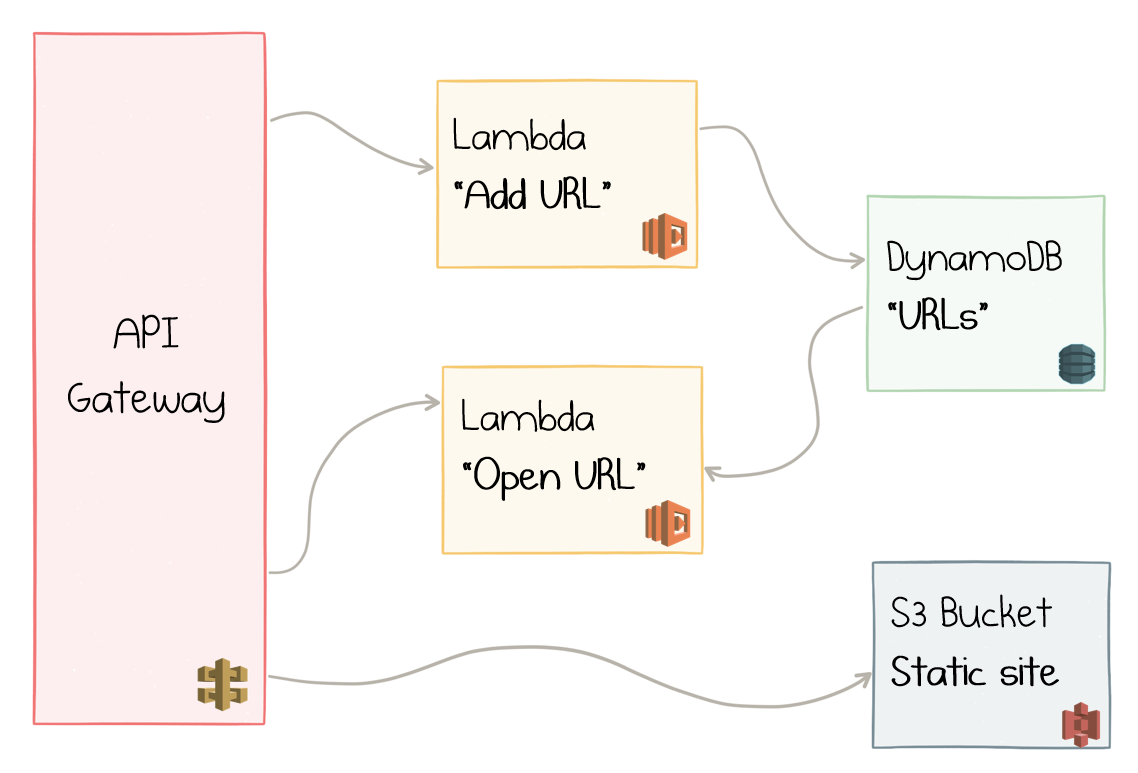
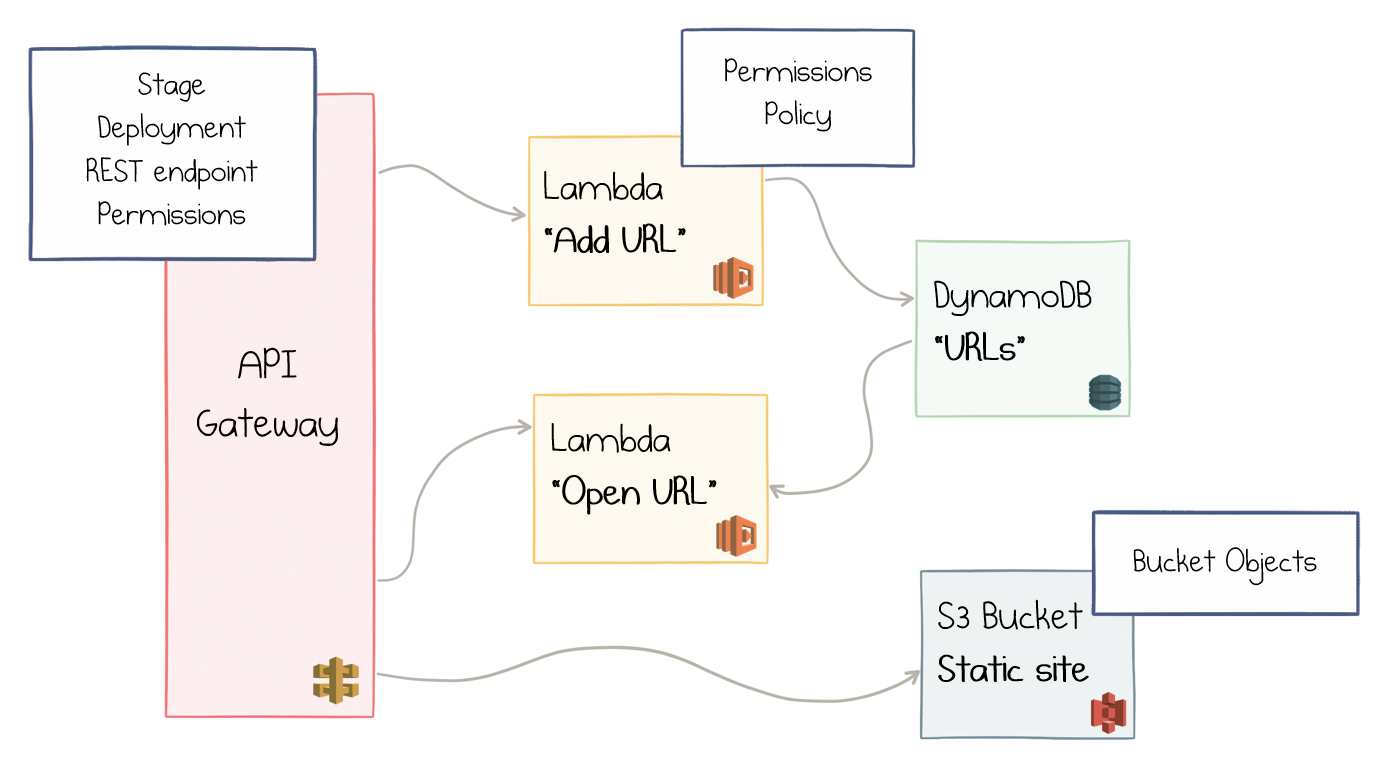
Pulumi article draft ready

diff --git a/src/documents/2019/02/pulumi/index.html.md b/src/documents/2019/02/pulumi/index.html.md
@@ -7,12 +7,14 @@ teaserImage: teaser.jpg
 description: 
 ---
 
-TODO: intro
+The rise of managed cloud services, cloud-native and serverless applications brings both new possibilities and challenges. More and more practices from software development process like version control, code review, continuous integration, and automated testing are applied to the cloud infrastructure provisioning.
+
+Most existing tools suggest defining infrastructure in text-based markup formats. In this article, I'm making a case for using real programming languages like TypeScript instead. Such a change makes even more software development practices applicable to the infrastructure realm.
 
 Sample Application
 ------------------
 
-It's always easier to make a case given a specific example. For this article, I took a URL Shortener application. There is an administrative page where one can define short aliases for long URLs:
+It's easier to make a case given a specific example. For this article, I define a URL Shortener application, a basic clone of tinyurl.com or bit.ly. There is an administrative page where one can define short aliases for long URLs:
 
 ![URL Shortener sample app](url-shortener.png)
 
@@ -20,24 +22,24 @@ It's always easier to make a case given a specific example. For this article, I 
 
 Now, whenever somebody goes to the base URL of the application + an existing alias, they get redirected to the full URL.
 
-This app is simple enough to be described but involves enough moving parts to be representative of some real-world issues. As a bonus, there are enough existing implementations on the web to compare with.
+This app is simple to describe but involves enough moving parts to be representative of some real-world issues. As a bonus, there are many existing implementations on the web to compare with.
 
 Serverless URL Shortener
 ------------------------
 
-I'm a big proponent of serverless architecture: developing cloud applications as a combination of serverless functions and managed cloud services. They are fast to develop, effortless to run, and will cost me nothing unless my URL shortener gets lots of users.
+I'm a big proponent of the serverless architecture: the style of cloud applications being a combination of serverless functions and managed cloud services. They are fast to develop, effortless to run and cost pennies unless the application gets lots of users.
 
-My examples are going to be in AWS, but this could be Microsoft Azure or Google Cloud Platform too.
+My examples are going to use Amazon AWS, but this could be Microsoft Azure or Google Cloud Platform too.
 
-So, my basic idea is to store URLs with short names as key-value pairs in Amazon DynamoDB and use AWS Lambdas to run the application code. Here is the initial sketch:
+So, the gist is to store URLs with short names as key-value pairs in Amazon DynamoDB and use AWS Lambdas to run the application code. Here is the initial sketch:
 
 ![URL Shortener with AWS Lambda and DynamoDB](lambda-dynamodb.png)
 
 <figcaption>URL Shortener with AWS Lambda and DynamoDB</figcaption>
 
-The top Lambda receives an event when somebody decides to add a new URL. It gets the name and the URL from the request and saves them as an item in the DynamoDB table.
+The Lambda on the top receives an event when somebody decides to add a new URL. It extracts the name and the URL from the request and saves them as an item in the DynamoDB table.
 
-The bottom Lambda gets called when a user navigates to a short URL. It reads the full URL based on the requested path and returns a `301` response with the corresponding location.
+The Lambda at the bottom is called when a user navigates to a short URL. The code reads the full URL based on the requested path and returns a 301 response with the corresponding location.
 
 Here is the implementation of the `Open URL` Lambda in JavaScript:
 
@@ -58,13 +60,13 @@ exports.handler = async (event) => {
 };
 ```
 
-That's 11 lines of code. I'll skip the implementation of `Add URL` function because it's very similar. Considering a third function to list the existing URLs for UI, we might have 30-40 lines of JavaScript.
+That's 11 lines of code. I'll skip the implementation of `Add URL` function because it's very similar. Considering a third function to list the existing URLs for UI, we might have 30-40 lines of JavaScript in total.
 
 So, how do we deploy the application?
 
 Well, before we do that, we should realize that the above picture was an over-simplification.
 
-- AWS Lambda can't handle HTTP directly, so we need to add AWS API Gateway in front of it.
+- AWS Lambda can't handle HTTP requests directly, so we need to add AWS API Gateway in front of it.
 - We also need to serve some static files for the UI, which we'll put into AWS S3 and front it with the same API Gateway.
 
 Here is the updated diagram:
@@ -73,13 +75,13 @@ Here is the updated diagram:
 
 <figcaption>API Gateway, Lambda, DynamoDB, and S3</figcaption>
 
-This will work, but the details are even more complicated:
+This is a viable design, but the details are even more complicated:
 
-- API Gateway is a complex beast which needs Stages, Deployments, and REST Endpoints to be configured properly.
-- Permissions and policies need to be configured so that API Gateway could call Lambda and Lambda could call DynamoDB.
+- API Gateway is a complex beast which needs Stages, Deployments, and REST Endpoints to be appropriately configured.
+- Permissions and policies need to be defined so that API Gateway could call Lambda and Lambda could access DynamoDB.
 - Static Files should go to S3 Bucket Objects.
 
-So, the actual setup involves a couple dozen objects to be configured in AWS:
+So, the actual setup involves a couple of dozen objects to be configured in AWS:
 
 ![Cloud resources to be provisioned](apigateway-lambda-dynamodb-s3-details.png)
 
@@ -90,25 +92,25 @@ How do we approach this task?
 Options to Provision the Infrastructure
 ---------------------------------------
 
-There are many options to provision a cloud application, each one with its own trade-offs. Let's quickly go through the list to understand the landscape.
+There are many options to provision a cloud application, each one has its trade-offs. Let's quickly go through the list of possibilities to understand the landscape.
 
 AWS Web Console
 ---------------
 
-AWS, as any other cloud, has a [web user interface](https://console.aws.amazon.com) to configure its resources:
+AWS, like any other cloud, has a [web user interface](https://console.aws.amazon.com) to configure its resources:
 
 ![AWS Web Console](aws-web-console.png)
 
 <figcaption>AWS Web Console</figcaption>
 
-That's obviously a good place to start&mdash;good for experimenting, figuring out the available options, following the tutorials, i.e. for exploration.
+That's a decent place to start&mdash;good for experimenting, figuring out the available options, following the tutorials, i.e., for exploration.
 
-However, it's pretty bad for long-lived ever-changing applications developed in teams. A manually clicked deployment is pretty hard to reproduce in the exact manner, which becomes a maintainability issue pretty fast.
+However, it doesn't suit particularly well for long-lived ever-changing applications developed in teams. A manually clicked deployment is pretty hard to reproduce in the exact manner, which becomes a maintainability issue pretty fast.
 
 AWS Command Line Interface
 --------------------------
 
-The [AWS Command Line Interface](https://aws.amazon.com/cli/) (CLI) is a unified tool to manage all AWS services from a command line. You write the calls like
+The [AWS Command Line Interface](https://aws.amazon.com/cli/) (CLI) is a unified tool to manage all AWS services from a command prompt. You write the calls like
 
 ``` console
 aws apigateway create-rest-api --name 'My First API' --description 'This is my first API'
@@ -116,21 +118,21 @@ aws apigateway create-rest-api --name 'My First API' --description 'This is my f
 aws apigateway create-stage --rest-api-id 1234123412 --stage-name 'dev' --description 'Development stage' --deployment-id a1b2c3
 ```
 
-The initial experience might not be as smooth as clicking buttons in the browser, but the huge benefit is that you can *reuse* commands that you once wrote. You can build scripts by combining many commands into cohesive scenarios. So, your colleague can use the same script that you created. You can provision multiple environments by parameterizing the scripts.
+The initial experience might not be as smooth as clicking buttons in the browser, but the huge benefit is that you can *reuse* commands that you once wrote. You can build scripts by combining many commands into cohesive scenarios. So, your colleague can benefit from the same script that you created. You can provision multiple environments by parameterizing the scripts.
 
-Frankly speaking, I've never done that for two related reason:
+Frankly speaking, I've never done that for two related reasons:
 
 - CLI scripts feel too imperative to me. I have to describe "how" to do things, not "what" I want to get in the end.
-- There seems to be no good story for updating existing resources. Do I write small delta scripts for any update? Do I have to keep them forever and run the full suite every time I need a new environment?
+- There seems to be no good story for updating existing resources. Do I write small delta scripts for each change? Do I have to keep them forever and run the full suite every time I need a new environment?
 
-To overcome such limitations, the notion of **Desired State Configuration** (DSC) was invented. Under this paradygm, one describes the desired layout of the infrastructure, and then the tooling takes care of either provisioning it from scratch, or applying the required changes to an existing environment.
+To overcome such limitations, the notion of the **Desired State Configuration** (DSC) was invented. Under this paradigm, one describes the desired layout of the infrastructure, and then the tooling takes care of either provisioning it from scratch or applying the required changes to an existing environment.
 
 Which tool provides DSC model for AWS? There are legions.
 
 AWS CloudFormation
 ------------------
 
-[AWS CloudFormation](https://aws.amazon.com/cloudformation/) is *the* tool for Desired State Configuration management from Amazon themselves. It comes with its own templating language based on UAML to describe all the infrastructure resources of AWS.
+[AWS CloudFormation](https://aws.amazon.com/cloudformation/) is the first-party tool for Desired State Configuration management from Amazon. CloudFormation templates use YAML to describe all the infrastructure resources of AWS.
 
 Here is a snippet from [a private URL shortener example](https://aws.amazon.com/blogs/compute/build-a-serverless-private-url-shortener/) kindly provided at AWS blog:
 
@@ -152,18 +154,18 @@ Resources:
             Status: Enabled
 ```
 
-This is just a very short fragment: the complete example consists of 317 lines YAML. That's order of magnitude more than the actual JavaScript code that we have in the application!
+This is just a very short fragment: the complete example consists of 317 lines YAML. That's an order of magnitude more than the actual JavaScript code that we have in the application!
 
-CloudFormation is a powerful tool, but it has quite some learning to be done to master it. And it's spefic to AWS: you won't be able to transfer the skill to other cloud providers.
+CloudFormation is a powerful tool, but it demands quite some learning to be done to master it. Moreover, it's specific to AWS: you won't be able to transfer the skill to other cloud providers.
 
 Wouldn't it be great if there was a universal DSC format? Meet Terraform.
 
 Terraform
 ---------
 
-[HashiCorp Terraform](https://www.terraform.io/) is an open source tool to define infrastructure in declarative configuration files. It has a a pluggable architecture, so the tool supports all major cloud and even hybrid scenarios. Terraform seems to be the most popular and powerful tool in its segment.
+[HashiCorp Terraform](https://www.terraform.io/) is an open source tool to define infrastructure in declarative configuration files. It has a pluggable architecture, so the tool supports all major clouds and even hybrid scenarios.
 
-The custom text-based Terraform `.tf` format is used to define the configurations. The templating language is quite powerful, and once you learn it you can use it for different cloud providers.
+The custom text-based Terraform `.tf` format is used to define the configurations. The templating language is quite powerful, and once you learn it, you can use it for different cloud providers.
 
 Here is a snippet from [AWS Lambda Short URL Generator](https://github.com/jamesridgway/aws-lambda-short-url) example:
 
@@ -184,14 +186,14 @@ resource "aws_api_gateway_usage_plan" "short_urls_admin_api_key_usage_plan" {
 
 This time, the complete example is around 450 lines of textual templates. Are there ways to reduce the size of the infrastructure definition?
 
-Yes, by raising the level of abstraction. It's possible with Terraform's modules, or by using other, more specilized tools.
+Yes, by raising the level of abstraction. It's possible with Terraform's modules, or by using other, more specialized tools.
 
 Serverless Framework and SAM
 ----------------------------
 
-[The Serverless Framework](https://serverless.com/) is an infrastructure management tool specialized on serverless applications. It works across cloud providers (AWS support is the strongest though) and only exposes features related to building applications with cloud functions.
+[The Serverless Framework](https://serverless.com/) is an infrastructure management tool focused on serverless applications. It works across cloud providers (AWS support is the strongest though) and only exposes features related to building applications with cloud functions.
 
-The benefit is that it's much more consise. Once again, the tool is using YAML to define the templates, here is the snippet from [Serverless URL Shortener](https://github.com/danielireson/serverless-url-shortener) example:
+The benefit is that it's much more concise. Once again, the tool is using YAML to define the templates, here is the snippet from [Serverless URL Shortener](https://github.com/danielireson/serverless-url-shortener) example:
 
 ``` yaml
 functions:
@@ -204,28 +206,28 @@ functions:
           cors: true
 ```
 
-But the domain-specific language yields shorter definition: this example has 45 lines of YAML + 123 lines of JavaScript functions.
+The domain-specific language yields a shorter definition: this example has 45 lines of YAML + 123 lines of JavaScript functions.
 
-Amazon's [AWS Serverless Application Model](https://docs.aws.amazon.com/serverless-application-model/index.html) (SAM) looks very similar to the Serverless Framework, but tailored to be AWS-specific.
+Amazon's [AWS Serverless Application Model](https://docs.aws.amazon.com/serverless-application-model/index.html) (SAM) looks very similar to the Serverless Framework but tailored to be AWS-specific.
 
 Is that the end game? I don't think so.
 
 Desired Properties of Infrastructure Definition Tool
 ----------------------------------------------------
 
-So what have we learned while going through the existing landscape? The perfect infrastracuture tools should:
+So what have we learned while going through the existing landscape? The perfect infrastructure tools should:
 
 - Provide **reproducible** results of deployments
-- Be **scriptable**, i.e. require no human intervention after the definition is complete
+- Be **scriptable**, i.e., require no human intervention after the definition is complete
 - Define **desired state** rather than exact steps to achieve it
-- Support **multiple cloud prodivers** and hybrid scenarios
-- Be **universal** in a sense of using the same tool to define any type of resource
-- Be **succint** and **concise** to stay readable and manageable
+- Support **multiple cloud providers** and hybrid scenarios
+- Be **universal** in the sense of using the same tool to define any type of resource
+- Be **succinct** and **concise** to stay readable and manageable
 - ~~Use YAML-based format~~
 
-Nah, I crossed out the last item. YAML seems to be the most popular language among this class of tools (and I haven't even touched Kubernetes yet!), but I'm not convinced it works good for me. [YAML has many flaws and I just don't want to use it](https://noyaml.com/).
+Nah, I crossed out the last item. YAML seems to be the most popular language among this class of tools (and I haven't even touched Kubernetes yet!), but I'm not convinced it works well for me. [YAML has many flaws, and I just don't want to use it](https://noyaml.com/).
 
-Have you noticed that I haven't mentioned **Infrastructure as code** a single time yet? Well, here we go (from [wikipedia](https://en.wikipedia.org/wiki/Infrastructure_as_code)):
+Have you noticed that I haven't mentioned **Infrastructure as code** a single time yet? Well, here we go (from [Wikipedia](https://en.wikipedia.org/wiki/Infrastructure_as_code)):
 
 > Infrastructure as code (IaC) is the process of managing and provisioning computer data centers through machine-readable definition files, rather than physical hardware configuration or interactive configuration tools.
 
@@ -242,12 +244,12 @@ Pulumi
 
 Pulumi programming model supports Go and Python too, but I'm going to use TypeScript for the rest of the article.
 
-While prototyping a URL shortener, I will explain the basic way of working, and illustrate the benefits and some trade-offs. If you want to follow along, [install Pulumi](https://pulumi.io/quickstart/install.html).
+While prototyping a URL shortener, I explain the fundamental way of working and illustrate the benefits and some trade-offs. If you want to follow along, [install Pulumi](https://pulumi.io/quickstart/install.html).
 
 How Pulumi Works
 ----------------
 
-Let's start defining our URL shortener application in TypeScript. I installed `@pulumi/pulumi` and `@pulumi/aws` NPM modules, so I can start the program. The first resource to create is a DynamoDB table:
+Let's start defining our URL shortener application in TypeScript. I installed `@pulumi/pulumi` and `@pulumi/aws` NPM modules so that I can start the program. The first resource to create is a DynamoDB table:
 
 ``` typescript
 import * as aws from "@pulumi/aws";
@@ -289,9 +291,9 @@ Resources:
     + 2 created
 ```
 
-The CLI first shows the preview of the changes to be made, and when I confirm, it creates the resource. It also created a *stack*&mdash;a container for all the resouces for the program.
+The CLI first shows the preview of the changes to be made, and when I confirm, it creates the resource. It also creates a *stack*&mdash;a container for all the resources of the application.
 
-This code might look like an imperative command to create a DynamoDB table but it's actually not. If I go ahead and change `readCapacity` to `2` and then re-run `pulumi up`, it will produce a different outcome:
+This code might look like an imperative command to create a DynamoDB table, but it actually isn't. If I go ahead and change `readCapacity` to `2` and then re-run `pulumi up`, it produces a different outcome:
 
 ``` console
 > pulumi up
@@ -307,20 +309,20 @@ Resources:
     1 unchanged
 ```
 
-It actually detected the exact change that I made, and suggests an update this time. The following picture illustrates how Pulumi works:
+It detects the exact change that I made and suggests an update. The following picture illustrates how Pulumi works:
 
 ![How Pulumi works](how-pulumi-works.png)
 
 <figcaption>How Pulumi works</figcaption>
 
-`index.ts` in the red square is my program. Pulumi's language host understands TypeScript and translates the code to commands to the internal engine. As result, the engine builds a tree of resources-to-be-provisioned, the desired state of the infrastructure.
+`index.ts` in the red square is my program. Pulumi's language host understands TypeScript and translates the code to commands to the internal engine. As a result, the engine builds a tree of resources-to-be-provisioned, the desired state of the infrastructure.
 
-The end state of the last deployment is persisted in the storage (can be in pulumi.com backend or a file on disk). The engine than compares the current state of the system with the desired state of the program, and calculates the delta in terms of create-update-delete commands to the cloud provider.
+The end state of the last deployment is persisted in the storage (can be in pulumi.com backend or a file on disk). The engine then compares the current state of the system with the desired state of the program and calculates the delta in terms of create-update-delete commands to the cloud provider.
 
 Help Of Types
 -------------
 
-Now I can proceed to code that defines a Lambda function:
+Now I can proceed to the code that defines a Lambda function:
 
 ``` typescript
 // Create a Role giving our Lambda access.
@@ -350,15 +352,15 @@ let lambda = new aws.lambda.Function("lambda-get", {
 }, { dependsOn: [fullAccess] });
 ```
 
-You can see that the complexity kicked in and the code size is growing. However, now I start to get real benefits from using a real typed programming language:
+You can see that the complexity kicked in and the code size is growing. However, now I start to gain real benefits from using a typed programming language:
 
-- I'm using objects in the definitions of other object's parameters. If I misspel their name, I don't get a runtime failure but an immediate error message from the editor.
+- I'm using objects in the definitions of other object's parameters. If I misspell their name, I don't get a runtime failure but an immediate error message from the editor.
 - If I don't know which options I need to provide, I can go to the type definition and look it up (or use IntelliSense).
-- If I forget to specify a mandatory option, I get an descriptive error.
+- If I forget to specify a mandatory option, I get a clear error.
 - If the type of the input parameter doesn't match the type of the object I'm passing, I get an error again.
-- I can use language features like `JSON.stringify` right inside my program. In fact, I can reference and use and NPM module.
+- I can use language features like `JSON.stringify` right inside my program. In fact, I can reference and use any NPM module.
 
-You can see the code for API Gateway [here](TODO). It looks too verbose, isn't it? And I'm only half-way through with only one Lambda function defined.
+You can see the code for API Gateway [here](TODO). It looks too verbose, doesn't it? Moreover, I'm only half-way through with only one Lambda function defined.
 
 Reusable Components
 -------------------
@@ -379,7 +381,7 @@ const func = new Lambda("lambda-get", {
 
 Now, isn't that beautiful? Only the essential options remained, while all the machinery is gone. Well, it's not completely gone, it's been hidden behind an *abstraction*.
 
-I defined my own **custom component** called `Lambda`:
+I defined a **custom component** called `Lambda`:
 
 ``` typescript
 export interface LambdaOptions {
@@ -444,7 +446,7 @@ const api = new Endpoint("urlapi", {
 });
 ```
 
-The component hides the complexity from the clients, if the abstraction was selected correctly, that is. The component class can be reused for multiple usages in several projects across teams etc.
+The component hides the complexity from the clients; if the abstraction was selected correctly, that is. The component class can be reused in multiple places, in several projects, across teams, etc.
 
 Standard Component Library
 --------------------------
@@ -499,9 +501,9 @@ The coolest thing here is that the actual *implementation code* of AWS Lambdas i
 Avoiding Vendor Lock-in?
 ------------------------
 
-If you look closely at the previous code block, you will notice that only one line is AWS-specific: the `import` statement. The rest is just naming. 
+If you look closely at the previous code block, you notice that only one line is AWS-specific: the `import` statement. The rest is just naming. 
 
-We can get rid of that one too, just change the import to `import * as cloud from "@pulumi/cloud";` and replace `aws.` with `cloud.` everywhere. Now, we'd have to go to the stack configuration file and specify the cloud provider there:
+We can get rid of that one too: just change the import to `import * as cloud from "@pulumi/cloud";` and replace `aws.` with `cloud.` everywhere. Now, we'd have to go to the stack configuration file and specify the cloud provider there:
 
 ``` yaml
 config:
@@ -510,7 +512,7 @@ config:
 
 Which is enough to make the application work again!
 
-Vendor lock-in seems to be a big concern among many people when it comes to cloud architectures heavily relying on cloud managed services, including serverless applications. While I don't necessarily share those concerns, and not sure if generic abstractions are the right way to go, Pulumi Cloud library can be one direction for the exploration.
+Vendor lock-in seems to be a big concern among many people when it comes to cloud architectures heavily relying on managed cloud services, including serverless applications. While I don't necessarily share those concerns and am not sure if generic abstractions are the right way to go, Pulumi Cloud library can be one direction for the exploration.
 
 The following picture illustrates the choice of the level of abstraction that Pulumi provides:
 
@@ -518,8 +520,13 @@ The following picture illustrates the choice of the level of abstraction that Pu
 
 <figcaption>Pulumi abstraction layers</figcaption>
 
-Working on top of cloud provider's API and internal resoure provider, you can choose to work with raw components with maximum flexibility, or opt-in for higher-level abstractions. Mix-and-match in the same program is possible too.
+Working on top of the cloud provider's API and internal resource provider, you can choose to work with raw components with maximum flexibility, or opt-in for higher-level abstractions. Mix-and-match in the same program is possible too.
 
 Infrastructure as Real Code
 ---------------------------
 
+Designing applications for the modern cloud means utilizing multiple cloud services which have to be configured to play nicely together. The Infrastructure as Code approach is almost a requirement to keep the management of such applications reliable in a team setting and over the extended period.
+
+Application code and supporting infrastructure become more and more blended, so it's natural that software developers take the responsibility to define both. The next logical step is to use the same set of languages, tooling, and practices for both software and infrastructure.
+
+Pulumi exposes cloud resources as APIs in several popular general-purpose programming languages. Developers can directly transfer their skills and experience to define, build, compose, and deploy modern cloud-native and serverless applications more efficiently than ever.
